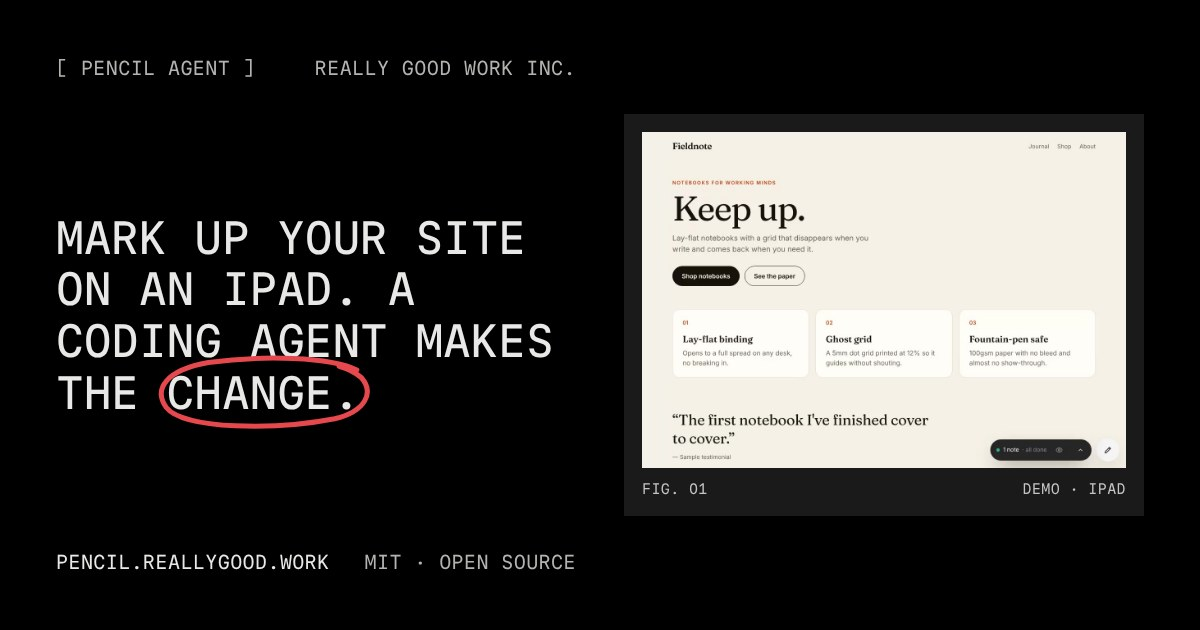
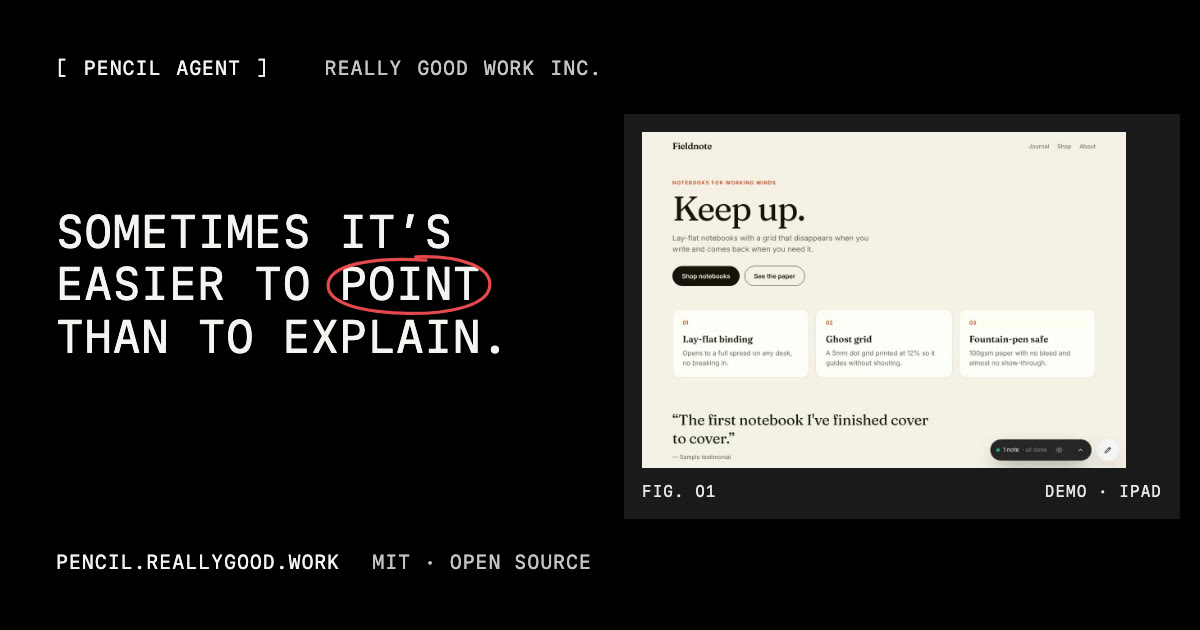
Site: rewrite the copy as an idea, not a pitch
- New story: where the idea came from, in first person. Cut the
  element-finding walkthrough, the experience and voice tables, and the
  server spec. Shorter FAQ, with the JSON-LD rebuilt to match.
- Three text tones: bright headings, softer body, dim labels.
- Paragraphs in sentence case; labels, headings and nav stay uppercase.
- New OG card with the new headline. Updated meta, llms.txt and manifest.

diff --git a/site/index.html b/site/index.html
@@ -3,8 +3,8 @@
 <head>
 <meta charset="utf-8">
 <meta name="viewport" content="width=device-width, initial-scale=1">
-<title>Pencil Agent: mark up your site on an iPad, Claude Code makes the change</title>
-<meta name="description" content="Circle something on your live site with Apple Pencil or a finger, say what should change, and Claude Code edits the code on your Mac. Free, open source, MIT.">
+<title>Pencil Agent: draw on your site, Claude Code makes the change</title>
+<meta name="description" content="An experiment: circle something on a live website with an Apple Pencil or a finger, say what you want, and Claude Code changes the code on your Mac. Free and open source.">
 <meta name="author" content="Drew Minns, Really Good Work Inc.">
 <meta name="robots" content="index, follow, max-image-preview:large, max-video-preview:-1, max-snippet:-1">
 <link rel="canonical" href="https://pencil.reallygood.work/">
@@ -19,13 +19,13 @@
 <meta property="og:site_name" content="Pencil Agent">
 <meta property="og:locale" content="en_US">
 <meta property="og:url" content="https://pencil.reallygood.work/">
-<meta property="og:title" content="Pencil Agent: mark up your site on an iPad">
-<meta property="og:description" content="Circle it on your iPad. Say what's wrong. Claude Code fixes it on your Mac. Free and open source.">
+<meta property="og:title" content="Pencil Agent: sometimes it’s easier to point than to explain">
+<meta property="og:description" content="Draw on a live website with an Apple Pencil or your finger, say what you want, and Claude Code makes the change on your Mac. An open-source experiment.">
 <meta property="og:image" content="https://pencil.reallygood.work/media/og.jpg">
 <meta property="og:image:type" content="image/jpeg">
 <meta property="og:image:width" content="1200">
 <meta property="og:image:height" content="630">
-<meta property="og:image:alt" content="Pencil Agent: mark up your site on an iPad. A coding agent makes the change. Beside it, the demo site on an iPad.">
+<meta property="og:image:alt" content="Pencil Agent: sometimes it’s easier to point than to explain. The word point is circled in red. Beside it, the demo site on an iPad.">
 <meta property="og:video" content="https://pencil.reallygood.work/media/ipad.mp4">
 <meta property="og:video:secure_url" content="https://pencil.reallygood.work/media/ipad.mp4">
 <meta property="og:video:type" content="video/mp4">
@@ -34,10 +34,10 @@
 <meta name="twitter:card" content="summary_large_image">
 <meta name="twitter:site" content="@reallygoodwork">
 <meta name="twitter:creator" content="@reallygoodwork">
-<meta name="twitter:title" content="Pencil Agent: mark up your site on an iPad">
-<meta name="twitter:description" content="Circle it on your iPad. Say what's wrong. Claude Code fixes it on your Mac.">
+<meta name="twitter:title" content="Pencil Agent: sometimes it’s easier to point than to explain">
+<meta name="twitter:description" content="Draw on a live website, say what you want, and Claude Code makes the change on your Mac.">
 <meta name="twitter:image" content="https://pencil.reallygood.work/media/og.jpg">
-<meta name="twitter:image:alt" content="Pencil Agent: mark up your site on an iPad. A coding agent makes the change.">
+<meta name="twitter:image:alt" content="Pencil Agent: sometimes it’s easier to point than to explain.">
 <script type="application/ld+json">
 {
  "@context": "https://schema.org",
@@ -71,7 +71,7 @@
    "@id": "https://pencil.reallygood.work/#app",
    "name": "Pencil Agent",
    "url": "https://pencil.reallygood.work/",
-   "description": "Circle something on your live site with Apple Pencil or a finger, say what should change, and Claude Code edits the code on your Mac. Free, open source, MIT.",
+   "description": "An experiment: circle something on a live website with an Apple Pencil or a finger, say what you want, and Claude Code changes the code on your Mac. Free and open source.",
    "applicationCategory": "DeveloperApplication",
    "applicationSubCategory": "Visual feedback and code editing",
    "operatingSystem": "macOS, iPadOS, iOS",
@@ -134,86 +134,14 @@
    "@type": "FAQPage",
    "@id": "https://pencil.reallygood.work/#faq",
    "mainEntity": [
-    {
-     "@type": "Question",
-     "name": "What is Pencil Agent?",
-     "acceptedAnswer": {
-      "@type": "Answer",
-      "text": "An open-source tool for reviewing websites on an iPad or phone. You circle part of the live page, say or type the change, and Claude Code edits the code on your Mac. The page reloads with the fix."
-     }
-    },
-    {
-     "@type": "Question",
-     "name": "What do I need to run it?",
-     "acceptedAnswer": {
-      "@type": "Answer",
-      "text": "A Mac with Node 20.6 or newer, Claude Code signed in, your app's dev server, and an iPad or iPhone. Tailscale (free) connects the two devices from any network."
-     }
-    },
-    {
-     "@type": "Question",
-     "name": "How much does it cost?",
-     "acceptedAnswer": {
-      "@type": "Answer",
-      "text": "Pencil Agent is free and MIT licensed. Claude Code runs with your own Claude plan or API key, the same as at your desk. Voice transcription is free: keyboard dictation or whisper.cpp on your Mac."
-     }
-    },
-    {
-     "@type": "Question",
-     "name": "How does it know which element I circled?",
-     "acceptedAnswer": {
-      "@type": "Answer",
-      "text": "It asks the browser, not the pixels. It finds what sits under the middle of the circle, then steps out to the parent while the circle still covers 70% of it. Circle a button, get the button."
-     }
-    },
-    {
-     "@type": "Question",
-     "name": "How does it tell an arrow from a circle?",
-     "acceptedAnswer": {
-      "@type": "Answer",
-      "text": "It measures each stroke with loose rules instead of recognising pictures. Ends that meet make a loop. A path that turns back from its farthest point is an arrow. Two crossing lines are an X. A flat line through text is a strike, just below it an underline."
-     }
-    },
-    {
-     "@type": "Question",
-     "name": "Where does my data go?",
-     "acceptedAnswer": {
-      "@type": "Answer",
-      "text": "Notes, sketches and voice stay on your Mac. The only thing that leaves is what Claude Code sends to Anthropic while it works in your project, under your own login, the same as at your desk. Nothing runs until you send a note."
-     }
-    },
-    {
-     "@type": "Question",
-     "name": "Is it secure?",
-     "acceptedAnswer": {
-      "@type": "Answer",
-      "text": "The server listens on 127.0.0.1 only, checks a long random token and your app's exact address on every request, and refuses every other site. The agent can read, search and edit files. It has no terminal and no internet."
-     }
-    },
-    {
-     "@type": "Question",
-     "name": "Why Tailscale?",
-     "acceptedAnswer": {
-      "@type": "Answer",
-      "text": "Your iPad needs to reach your Mac without opening a port to the internet. Tailscale is a private, encrypted network between your own devices, and it gives the Mac a real HTTPS certificate so Safari allows the mic. On trusted home Wi-Fi you can skip it."
-     }
-    },
-    {
-     "@type": "Question",
-     "name": "Does it work on a phone?",
-     "acceptedAnswer": {
-      "@type": "Answer",
-      "text": "Yes. Turn the pen on, draw with one finger and scroll with two. On an iPad, the Apple Pencil draws and your fingers keep scrolling."
-     }
-    },
-    {
-     "@type": "Question",
-     "name": "Which frameworks does it support?",
-     "acceptedAnswer": {
-      "@type": "Answer",
-      "text": "Any site your dev server runs: it's one script tag, added in development only. In React apps it also reports the component and source file."
-     }
-    }
+    {"@type": "Question", "name": "What is Pencil Agent?", "acceptedAnswer": {"@type": "Answer", "text": "An experiment, and an open-source tool. You circle part of a live site on an iPad or phone, say what should change, and Claude Code edits the code on your Mac."}},
+    {"@type": "Question", "name": "What do I need?", "acceptedAnswer": {"@type": "Answer", "text": "A Mac with Node 20.6 or newer, Claude Code signed in, your app’s dev server, and an iPad or iPhone. Tailscale, which is free, connects them from any network."}},
+    {"@type": "Question", "name": "What does it cost?", "acceptedAnswer": {"@type": "Answer", "text": "Nothing. It’s MIT licensed. Claude Code uses your own Claude plan, the same as at your desk. Voice is free too: the keyboard’s dictation key, or whisper.cpp on your Mac."}},
+    {"@type": "Question", "name": "How does it know what I circled?", "acceptedAnswer": {"@type": "Answer", "text": "It asks the browser what’s under your circle and picks the element the circle mostly covers. Circle a button, you get the button. Circle a card, you get the card."}},
+    {"@type": "Question", "name": "Where does my stuff go?", "acceptedAnswer": {"@type": "Answer", "text": "Your notes, sketches and voice stay on your Mac. Claude Code talks to Anthropic while it works, under your login, like it always does."}},
+    {"@type": "Question", "name": "Why Tailscale?", "acceptedAnswer": {"@type": "Answer", "text": "It connects your iPad to your Mac without opening anything to the internet. It also gives the Mac the HTTPS certificate Safari needs before it’ll use the mic."}},
+    {"@type": "Question", "name": "Does it work on a phone?", "acceptedAnswer": {"@type": "Answer", "text": "Yes. Turn the pen on, draw with one finger and scroll with two. On an iPad, the Pencil draws and your fingers scroll."}},
+    {"@type": "Question", "name": "Which frameworks does it work with?", "acceptedAnswer": {"@type": "Answer", "text": "Anything your dev server runs. It’s one script tag, added in development only. In React it also finds the component and the source file."}}
    ]
   }
  ]
@@ -223,23 +151,27 @@
 @font-face{font-family:'Paper Mono';src:url('media/PaperMono.woff2') format('woff2');font-weight:100 800;font-style:normal;font-display:swap}
 body{margin:0;background:#000}
 .pg{
-  /* two text tones on pure black, both measured: fg Lc 93 (17.1:1), dim Lc 61 */
+  /* three text tones on pure black: primary for headings (19:1), body for reading (8:1), dim for meta (5:1) */
   --color-bg-page:#000000; --color-bg-surface:#0D0D0D; --color-border:#595855;
-  --color-text-primary:#E8E8E6; --color-text-dim:#B3B3B0; --color-bg-plate:#1A1A1A; --color-text-plate-dim:#C4C4C1;
+  --color-text-primary:#F4F4F2; --color-text-body:#A1A19E; --color-text-dim:#7D7D7A; --color-bg-plate:#1A1A1A; --color-text-plate-dim:#A1A19E;
   --color-text-secondary:var(--color-text-primary); --color-text-tertiary:var(--color-text-plate-dim); /* names used inside the diagrams */ --color-ink:#E5484D;
   --text-body:0.8125rem; --text-small:0.75rem; --text-statement:1.25rem;
-  background:var(--color-bg-page);color:var(--color-text-primary);
+  background:var(--color-bg-page);color:var(--color-text-body);
   font-family:'Paper Mono',ui-monospace,SFMono-Regular,Menlo,monospace;
   font-size:var(--text-body);line-height:1.5;font-weight:400;text-transform:uppercase;letter-spacing:0.02em;
   -webkit-font-smoothing:antialiased;-moz-osx-font-smoothing:grayscale}
 .pg a{color:inherit;text-decoration:none}
-.pg a:hover{color:var(--color-text-dim)}
+.pg a:hover{color:var(--color-text-primary)}
+header,.statement,h2,.faq h3,.row .k,.mark{color:var(--color-text-primary)}
+header a:hover{color:var(--color-text-dim)}
+/* paragraphs read in sentence case; labels, headings and nav stay uppercase */
+.pg p:not(.statement),ol.steps li>span:last-child,.row .v,.cap,.plate .sub{text-transform:none;letter-spacing:0}
 .br::before{content:"[\00a0"} .br::after{content:"\00a0]"}
 .wrap{max-width:64rem;margin:0 auto;padding:0 2rem}
 header{display:flex;justify-content:space-between;align-items:baseline;gap:1.5rem;padding:1.5rem 0}
 .nav{display:flex;gap:1.5rem;flex-wrap:wrap}
 .sec{display:grid;grid-template-columns:12rem 1fr;column-gap:2rem;padding:4.5rem 0 0}
-.lab{min-width:0;color:var(--color-text-primary)}
+.lab{min-width:0;color:var(--color-text-dim)}
 .body{min-width:0;max-width:42rem}
 .statement{margin:0;font-size:var(--text-statement);line-height:1.3;font-weight:400;letter-spacing:0.01em;text-wrap:balance;max-width:28ch}
 h2{margin:0;font-size:var(--text-body);line-height:1.5;font-weight:600;letter-spacing:0.04em}
@@ -247,13 +179,14 @@ p{margin:1.25rem 0 0;max-width:56ch;text-wrap:pretty}
 h2 + p{margin-top:0.75rem}
 .faq{margin-top:2rem;display:grid;row-gap:1.75rem}
 .faq h3{margin:0;font-size:var(--text-body);line-height:1.5;font-weight:600;letter-spacing:0.04em}
-.faq p{margin:.375rem 0 0;color:var(--color-text-dim);text-wrap:pretty}
+.faq p{margin:.375rem 0 0;text-wrap:pretty}
 .rows{margin-top:2rem;display:grid;row-gap:1.75rem}
 .row{display:grid;grid-template-columns:minmax(0,13rem) minmax(0,1fr);column-gap:1.5rem}
 .row .k{min-width:0}
 .row .v{min-width:0;display:flex;flex-direction:column;text-wrap:pretty;overflow-wrap:anywhere}
 ol.steps{list-style:none;margin:2rem 0 0;padding:0;display:grid;row-gap:1.25rem;max-width:56ch}
 ol.steps li{display:grid;grid-template-columns:2.5rem 1fr}
+ol.steps li>span:first-child{color:var(--color-text-dim)}
 .plate{margin:2.5rem 0 0;background:var(--color-bg-plate);padding:0 0.5rem 0.5rem}
 .pl-h{display:flex;align-items:center;justify-content:space-between;gap:1rem;min-height:2.25rem;font-size:var(--text-small);color:var(--color-text-primary)}
 .pl-h .chip{background:var(--color-text-primary);color:var(--color-bg-page);padding:0.1875rem 0.5rem;font-weight:500;white-space:nowrap}
@@ -295,70 +228,39 @@ footer .body{display:flex;flex-wrap:wrap;justify-content:space-between;gap:1rem}
 <div class="wrap">
 <header>
 <a href="#top">Pencil Agent</a>
-<nav class="nav" aria-label="Main"><a class="n br" href="#how">How</a><a class="n br" href="#marks">Marks</a><a class="n br" href="#server">Server</a><a class="n br" href="#security">Security</a><a class="n br" href="#faq">FAQ</a><a class="n br" href="#about">Studio</a><a class="br" href="https://github.com/reallygoodwork/pencil">Code</a></nav>
+<nav class="nav" aria-label="Main"><a class="n br" href="#why">Why</a><a class="n br" href="#how">How</a><a class="n br" href="#marks">Drawing</a><a class="n br" href="#security">Privacy</a><a class="n br" href="#faq">FAQ</a><a class="br" href="https://github.com/reallygoodwork/pencil">Code</a></nav>
 </header>
 <section class="sec" id="intro">
-<div class="lab">Pencil Agent<br>A Really Good Work Inc. project</div>
+<div class="lab">Pencil Agent<br>An idea from Really Good Work</div>
 <div class="body">
-<h1 class="statement">Mark up your site on an iPad. A coding agent makes the change.</h1>
-<p>Draw on the live page, say what should change, and Claude Code edits the code on your Mac. You keep reviewing.</p>
+<h1 class="statement">Sometimes it’s easier to point than to explain.</h1>
+<p>Pencil Agent is an experiment. Draw on a live website with an Apple Pencil or your finger, say what you want, and Claude Code makes the change on your Mac.</p>
 </div>
 </section>
-<section class="sec" id="problem">
-<div class="lab">01 The problem</div>
+<section class="sec" id="why">
+<div class="lab">01 Where it came from</div>
 <div class="body">
-<h2>Small fixes still need a laptop.</h2>
-<p>You spot most problems on the real thing, often on a phone or iPad. The fix is usually small: a colour, a word, some spacing. But making it means opening the laptop, finding the file and switching context. So the fix waits, or gets lost.</p>
+<h2>I didn’t want to open the laptop.</h2>
+<p>I look at most of my work on an iPad or my phone, the way people will actually see it. That’s where I notice things. A button that’s the wrong orange. A headline that runs too long.</p>
+<p>The fix is usually small. But making it meant opening the laptop, finding the file and writing out what I meant. By then the moment was gone.</p>
+<p>And typing isn’t always the best way to say it. Sometimes I want to point and say, “No, this. This exact thing.”</p>
 </div>
 </section>
 <section class="sec" id="how">
 <div class="lab">02 How it works</div>
 <div class="body">
-<h2>Draw it, say it, it changes.</h2>
-<ol class="steps"><li><span>01</span><span>Circle what you want changed. Apple Pencil on an iPad, or a finger on a phone.</span></li><li><span>02</span><span>Say or type the change. “Make this our brand orange.”</span></li><li><span>03</span><span>Your Mac gets the note, with the element, its text and its source file.</span></li><li><span>04</span><span>Claude Code edits the file. The page reloads and the note turns green.</span></li></ol>
-<figure class="plate"><div class="pl-h"><span class="chip">Fig. 01</span><span class="t">Demo · iPad</span></div><video class="media" src="media/ipad.mp4" poster="media/ipad-poster.jpg" autoplay muted loop playsinline aria-label="Screen recording on an iPad: the headline is circled, the note asks for it shorter and punchier, Claude works on it, and the headline changes to Keep up."></video><figcaption class="cap">The demo site. Circle the headline, ask for it shorter, it updates.</figcaption></figure>
-</div>
-</section>
-<section class="sec" id="experience">
-<div class="lab">03 The experience</div>
-<div class="body">
-<h2>Built to stay out of the way.</h2>
-<p>You’re reviewing, not operating a tool. Nothing asks you to stop.</p>
-<div class="rows"><div class="row"><div class="k">Pencil draws</div><div class="v"><span>Fingers keep scrolling and tapping. On a phone, turn the pen on and use a finger.</span></div></div><div class="row"><div class="k">Pause to finish</div><div class="v"><span>Draw as many strokes as you need. Stop for under a second and the note opens.</span></div></div><div class="row"><div class="k">One pill</div><div class="v"><span>Type, talk or just send the sketch. A line above it says how it read your marks.</span></div></div><div class="row"><div class="k">Status</div><div class="v"><span>Amber waiting</span><span>Blue working</span><span>Purple question</span><span>Green done</span></div></div><div class="row"><div class="k">Keep moving</div><div class="v"><span>Mark the next thing while Claude works on the last one.</span></div></div><div class="row"><div class="k">Tidy up</div><div class="v"><span>A tray lists every note. Close, reopen, or delete with five seconds to undo.</span></div></div></div>
-<h2 style="margin-top:3.5rem">Voice, without paying for it.</h2>
-<p>Most voice features send your audio to a paid cloud service. This uses what’s already on your devices.</p>
-<div class="rows"><div class="row"><div class="k">Keyboard mic</div><div class="v"><span>The dictation key on the iPad keyboard. Built in, free, no setup.</span></div></div><div class="row"><div class="k">Whisper</div><div class="v"><span>whisper.cpp, an open-source speech model, runs on your Mac. Free, offline, the audio stays home.</span></div></div><div class="row"><div class="k">Web Audio</div><div class="v"><span>The browser’s own audio tools drive the visual that moves with your voice.</span></div></div></div>
-</div>
-</section>
-<section class="sec" id="finding">
-<div class="lab">04 Finding the element</div>
-<div class="body">
-<h2>How it knows what you circled.</h2>
-<p>A page is a tree of boxes and the browser knows where each one sits. So the overlay doesn’t look at pixels. It asks the browser.</p>
-<ol class="steps"><li><span>01</span><span>Ask what’s under the middle of the circle. Usually a word inside a button.</span></li><li><span>02</span><span>Step out to the parent while the circle still covers 70% of it. The word becomes the button.</span></li><li><span>03</span><span>Stop when it doesn’t fit. The section is too big, so the button is the answer.</span></li></ol>
-<figure class="plate"><div class="pl-h"><span class="chip">Fig. 02</span><span class="t">Finding the element</span></div><div class="scroll"><svg viewBox="0 0 640 220" role="img" aria-label="A section box containing a button. The words inside the button are found first, then the button, which the circle covers, then the section, which it doesn't." style="display: block; width: 100%; height: auto; background: var(--color-bg-surface)">
-<g font-family="Paper Mono, ui-monospace, monospace" font-size="12">
-<rect x="20" y="20" width="600" height="180" fill="none" stroke="var(--color-border)"/>
-<text x="34" y="42" fill="var(--color-text-tertiary)">section</text>
-<rect x="70" y="86" width="190" height="52" rx="26" fill="none" stroke="var(--color-text-secondary)"/>
-<rect x="100" y="101" width="130" height="22" fill="none" stroke="var(--color-text-tertiary)" stroke-dasharray="3 3"/>
-<text x="165" y="116" fill="var(--color-text-primary)" text-anchor="middle">Shop notebooks</text>
-<ellipse cx="165" cy="112" rx="125" ry="46" fill="none" stroke="#E5484D" stroke-width="2.5" transform="rotate(-3 165 112)"/>
-<circle cx="165" cy="131" r="3" fill="#E5484D"/>
-<text x="320" y="78" fill="var(--color-text-tertiary)">1</text><text x="344" y="78" fill="var(--color-text-secondary)">the words: start here</text>
-<text x="320" y="116" fill="var(--color-text-tertiary)">2</text><text x="344" y="116" fill="var(--color-text-primary)">the button: circle covers it</text>
-<text x="320" y="154" fill="var(--color-text-tertiary)">3</text><text x="344" y="154" fill="var(--color-text-secondary)">the section: too big, stop</text>
-</g>
-</svg></div><figcaption class="cap">Circle a button, get the button. Circle a card, get the card.</figcaption></figure>
-<p>Then it collects what a developer would want: tag, classes, text, neighbours, a few styles and, in React, the component and source file.</p>
+<h2>Point at it. Say it. Keep going.</h2>
+<ol class="steps"><li><span>01</span><span>Circle the thing. Apple Pencil on an iPad, or a finger on a phone.</span></li><li><span>02</span><span>Say what you want, or type it. “Make this our brand orange.”</span></li><li><span>03</span><span>Your Mac gets the note, with the element and the file it lives in.</span></li><li><span>04</span><span>Claude Code makes the change. The page reloads and the note turns green.</span></li></ol>
+<figure class="plate"><div class="pl-h"><span class="chip">Fig. 01</span><span class="t">Demo · iPad</span></div><video class="media" src="media/ipad.mp4" poster="media/ipad-poster.jpg" autoplay muted loop playsinline aria-label="Screen recording on an iPad: the headline is circled, the note asks for it shorter and punchier, Claude works on it, and the headline changes to Keep up."></video><figcaption class="cap">Circle the headline, ask for it shorter, watch it change.</figcaption></figure>
+<p>You don’t have to wait. Mark the next thing while Claude works on the last one. Every note stays on the page, so you can see what’s waiting, what’s done, and what Claude has a question about.</p>
 </div>
 </section>
 <section class="sec" id="marks">
-<div class="lab">05 Reading the marks</div>
+<div class="lab">03 Drawing</div>
 <div class="body">
-<h2>How it tells an arrow from a circle.</h2>
-<p>Everyone draws differently, so it doesn’t recognise pictures. It measures each stroke with loose rules that hold up in anyone’s hand.</p>
-<figure class="plate"><div class="pl-h"><span class="chip">Fig. 03</span><span class="t">Three rules</span></div><div class="scroll"><svg viewBox="0 0 640 200" role="img" aria-label="Three rules. A loop whose ends meet is a circle. A stroke whose points hug its bounding box is a box. A stroke that doubles back from its farthest point is an arrow." style="display: block; width: 100%; height: auto; background: var(--color-bg-surface)">
+<h2>More than circles.</h2>
+<p>If you’ve ever marked up a print, you already know how this works. An arrow means move it. A box means put something here. A cross means get rid of it.</p>
+<figure class="plate"><div class="pl-h"><span class="chip">Fig. 02</span><span class="t">Reading a stroke</span></div><div class="scroll"><svg viewBox="0 0 640 200" role="img" aria-label="Three rules. A loop whose ends meet is a circle. A stroke whose points hug its bounding box is a box. A stroke that doubles back from its farthest point is an arrow." style="display: block; width: 100%; height: auto; background: var(--color-bg-surface)">
 <g font-family="Paper Mono, ui-monospace, monospace" font-size="12" fill="none">
 <path d="M118 52 C 168 46, 182 92, 160 120 C 140 146, 82 142, 66 112 C 52 84, 76 50, 112 54" stroke="#E5484D" stroke-width="2.5" stroke-linecap="round"/>
 <circle cx="118" cy="52" r="3.5" fill="var(--color-text-primary)"/><circle cx="112" cy="54" r="3.5" fill="var(--color-text-primary)"/>
@@ -373,57 +275,53 @@ footer .body{display:flex;flex-wrap:wrap;justify-content:space-between;gap:1rem}
 <text x="424" y="172" fill="var(--color-text-primary)" stroke="none">Turns back at the tip</text>
 <text x="424" y="188" fill="var(--color-text-tertiary)" stroke="none">→ an arrow: move it</text>
 </g>
-</svg></div><figcaption class="cap">Measured, not recognised. Works in anyone’s hand.</figcaption></figure>
-<div class="rows"><div class="row"><div class="k">Circle</div><div class="v"><span>The ends meet and the path is long. A loop.</span></div></div><div class="row"><div class="k">Box</div><div class="v"><span>A loop whose points hug its edges.</span></div></div><div class="row"><div class="k">Arrow</div><div class="v"><span>The point farthest from the start is the tip. The pen turns back from it to draw the head.</span></div></div><div class="row"><div class="k">X</div><div class="v"><span>Two lines of similar size crossing near their middles.</span></div></div><div class="row"><div class="k">Strike / underline</div><div class="v"><span>A flat line through something strikes it. Just below, it underlines it.</span></div></div><div class="row"><div class="k">Handwriting</div><div class="v"><span>A scribble inside a box is its label.</span></div></div></div>
-<p>Then the shape becomes an instruction. An arrow moves whatever sits at its tail to where the tip points, a whole card rather than its heading. A box in empty space adds something between the two elements it sits between.</p>
-<p>It shows its reading before you send, like “Add after Link ‘See the paper’”. For anything beyond a circle, the agent also gets a picture: the page as outlines with your ink on top.</p>
-<figure class="plate"><div class="pl-h"><span class="chip">Fig. 04</span><span class="t">Sketch in, picture out</span></div><div class="pair"><div><img class="media" src="media/sketch-compose.jpg" alt="The demo page with a box sketched next to the two buttons, a scribble inside it, and an arrow from the third card to the first. The dark note pill below reads: Add after Link “See the paper”, with the note Add a Gift cards button, and lead with the fountain pen card."><span class="sub">A · What you draw</span></div><div><img class="media" src="media/sketch-seen.png" alt="The same area redrawn as grey outlines with labels, with the box, scribble and arrow on top."><span class="sub">B · What the agent receives</span></div></div></figure>
+</svg></div><figcaption class="cap">It measures the shape of each stroke instead of matching pictures, so messy drawing is fine.</figcaption></figure>
+<div class="rows"><div class="row"><div class="k">Circle</div><div class="v"><span>This one.</span></div></div><div class="row"><div class="k">Arrow</div><div class="v"><span>Move it here.</span></div></div><div class="row"><div class="k">Box</div><div class="v"><span>Add something here. Write inside it to say what.</span></div></div><div class="row"><div class="k">X or strike</div><div class="v"><span>Remove it.</span></div></div><div class="row"><div class="k">Underline</div><div class="v"><span>Make it stand out.</span></div></div></div>
+<p>Before you send, it tells you how it read your marks. If it got it wrong, draw it again.</p>
+<figure class="plate"><div class="pl-h"><span class="chip">Fig. 03</span><span class="t">What Claude sees</span></div><div class="pair"><div><img class="media" src="media/sketch-compose.jpg" alt="The demo page with a box sketched next to the two buttons, a scribble inside it, and an arrow from the third card to the first. The dark note pill below reads: Add after Link “See the paper”, with the note Add a Gift cards button, and lead with the fountain pen card."><span class="sub">A · What you draw</span></div><div><img class="media" src="media/sketch-seen.png" alt="The same area redrawn as grey outlines with labels, with the box, scribble and arrow on top."><span class="sub">B · What the agent receives</span></div></div><figcaption class="cap">Claude gets the page as outlines with your ink on top.</figcaption></figure>
 </div>
 </section>
 <section class="sec" id="server">
-<div class="lab">06 The local server</div>
+<div class="lab">04 On your Mac</div>
 <div class="body">
-<h2>The middle step, on your own Mac.</h2>
-<p>One Node file, nothing to install beyond Node. It sits between the iPad and Claude Code.</p>
-<div class="rows"><div class="row"><div class="k">Serves</div><div class="v"><span>The drawing script your page loads. Nothing to install in your app.</span></div></div><div class="row"><div class="k">Checks</div><div class="v"><span>Right token, right app, sensible size. Everything else is refused.</span></div></div><div class="row"><div class="k">Holds</div><div class="v"><span>Notes in memory, numbered per page. Restart and they’re gone.</span></div></div><div class="row"><div class="k">Streams</div><div class="v"><span>Each status change back to the page. No reloads.</span></div></div><div class="row"><div class="k">Runs</div><div class="v"><span>Claude Code in your project, up to five notes at a time, two seconds after the last one.</span></div></div><div class="row"><div class="k">Reports</div><div class="v"><span>Claude’s one line per note becomes the reply.</span></div></div></div>
-<figure class="plate"><div class="pl-h"><span class="chip">Code 01</span><span class="t">One note’s brief · plain text</span></div><pre class="code">[ann_c6j7hqC0Cmk] fix: Make this our brand orange
+<h2>A small server does the handoff.</h2>
+<p>It’s one Node file with no dependencies. It passes your notes to Claude Code, which works in your project the same way it does when you’re at your desk. This is everything Claude gets for one note:</p>
+<figure class="plate"><div class="pl-h"><span class="chip">Code 01</span><span class="t">One note</span></div><pre class="code">[ann_c6j7hqC0Cmk] fix: Make this our brand orange
 page: /
 element: a.btn.btn-primary "Shop notebooks"
 source: src/components/PrimaryButton.tsx:12
 classes: btn btn-primary</pre></figure>
-<p>That’s the whole brief for one note: about 60&nbsp;tokens. Notes, sketches and voice stay on your Mac. Claude Code works in your project the same way it does at your desk, with your own login. Nothing runs until you send.</p>
+<p>About 60&nbsp;tokens. Nothing runs until you send.</p>
 </div>
 </section>
 <section class="sec" id="security">
-<div class="lab">07 Security</div>
+<div class="lab">05 Keeping it private</div>
 <div class="body">
-<h2>Who gets to tell your computer to change code?</h2>
-<p>This lets a web page ask an agent to edit files on your Mac. Anyone who can reach the server could do the same. So only you can reach it, and the agent is limited even then.</p>
-<div class="rows"><div class="row"><div class="k">Mac only</div><div class="v"><span>The server listens on 127.0.0.1. Other machines can’t connect. Tailscale hands requests in from inside the Mac.</span></div></div><div class="row"><div class="k">Private network</div><div class="v"><span>Your iPad reaches the Mac over Tailscale. Only your signed-in devices can join.</span></div></div><div class="row"><div class="k">Token</div><div class="v"><span>A long random key in a file only you can read. Every request carries it.</span></div></div><div class="row"><div class="k">Your app only</div><div class="v"><span>The server answers your app’s address and refuses every other site.</span></div></div><div class="row"><div class="k">Limited agent</div><div class="v"><span>Read, find, search, edit and write files. No terminal. No internet.</span></div></div></div>
-<h2 style="margin-top:3.5rem">Why Tailscale.</h2>
-<p>Your iPad needs to reach your Mac. Opening a port to the internet invites the world. Home Wi-Fi only works at home, and anyone on it can reach the port. Tailscale is a private network between your own devices: install it on both, sign in once, and they connect, encrypted, from any network. It also gives the Mac a real HTTPS certificate, which Safari needs before a page can use the mic. The free plan covers it.</p>
-<p>Without it: on a trusted Wi-Fi, run with <code>HOST=0.0.0.0</code> and your Mac’s local IP. Plain HTTP, no mic button, home only. Not on café or office networks.</p>
+<h2>Only you can reach it.</h2>
+<p>A web page that can ask an agent to edit your code needs to be locked down. So it is.</p>
+<div class="rows"><div class="row"><div class="k">Mac only</div><div class="v"><span>The server only listens on your Mac. Other machines can’t connect.</span></div></div><div class="row"><div class="k">Tailscale</div><div class="v"><span>Your iPad reaches the Mac over a private network of your own devices.</span></div></div><div class="row"><div class="k">Token</div><div class="v"><span>Every request carries a long random key that only you have.</span></div></div><div class="row"><div class="k">Your app only</div><div class="v"><span>It answers your app and refuses every other site.</span></div></div><div class="row"><div class="k">Limited agent</div><div class="v"><span>Claude can read and edit files. No terminal. No internet.</span></div></div></div>
+<p>No Tailscale? On Wi-Fi you trust, run it with <code>HOST=0.0.0.0</code> and your Mac’s local address. You lose the mic, and it only works at home.</p>
 </div>
 </section>
 <section class="sec" id="try">
-<div class="lab">08 Try it</div>
+<div class="lab">06 Try it</div>
 <div class="body">
 <h2>Run the demo.</h2>
 <figure class="plate"><div class="pl-h"><span class="chip">Code 02</span><span class="t">Terminal</span></div><pre class="code">git clone https://github.com/reallygoodwork/pencil
 cd pencil
 npm run demo   <i># open localhost:5173, tap the pen</i></pre></figure>
-<p>A Mac with Node 20 and Claude Code. The demo edits a copy of a sample site. The README covers your own project. <a class="br" href="https://github.com/reallygoodwork/pencil">Get the code</a></p>
+<p>You need a Mac with Node 20 and Claude Code. The demo edits a copy of a sample site, so nothing of yours is touched. The README covers your own project. <a class="br" href="https://github.com/reallygoodwork/pencil">Get the code</a></p>
 </div>
 </section>
 <section class="sec" id="faq">
-<div class="lab">09 Questions</div>
+<div class="lab">07 Questions</div>
 <div class="body">
 <h2>Short answers.</h2>
-<div class="faq"><div class="qa"><h3>What is Pencil Agent?</h3><p>An open-source tool for reviewing websites on an iPad or phone. You circle part of the live page, say or type the change, and Claude Code edits the code on your Mac. The page reloads with the fix.</p></div><div class="qa"><h3>What do I need to run it?</h3><p>A Mac with Node 20.6 or newer, Claude Code signed in, your app&#x27;s dev server, and an iPad or iPhone. Tailscale (free) connects the two devices from any network.</p></div><div class="qa"><h3>How much does it cost?</h3><p>Pencil Agent is free and MIT licensed. Claude Code runs with your own Claude plan or API key, the same as at your desk. Voice transcription is free: keyboard dictation or whisper.cpp on your Mac.</p></div><div class="qa"><h3>How does it know which element I circled?</h3><p>It asks the browser, not the pixels. It finds what sits under the middle of the circle, then steps out to the parent while the circle still covers 70% of it. Circle a button, get the button.</p></div><div class="qa"><h3>How does it tell an arrow from a circle?</h3><p>It measures each stroke with loose rules instead of recognising pictures. Ends that meet make a loop. A path that turns back from its farthest point is an arrow. Two crossing lines are an X. A flat line through text is a strike, just below it an underline.</p></div><div class="qa"><h3>Where does my data go?</h3><p>Notes, sketches and voice stay on your Mac. The only thing that leaves is what Claude Code sends to Anthropic while it works in your project, under your own login, the same as at your desk. Nothing runs until you send a note.</p></div><div class="qa"><h3>Is it secure?</h3><p>The server listens on 127.0.0.1 only, checks a long random token and your app&#x27;s exact address on every request, and refuses every other site. The agent can read, search and edit files. It has no terminal and no internet.</p></div><div class="qa"><h3>Why Tailscale?</h3><p>Your iPad needs to reach your Mac without opening a port to the internet. Tailscale is a private, encrypted network between your own devices, and it gives the Mac a real HTTPS certificate so Safari allows the mic. On trusted home Wi-Fi you can skip it.</p></div><div class="qa"><h3>Does it work on a phone?</h3><p>Yes. Turn the pen on, draw with one finger and scroll with two. On an iPad, the Apple Pencil draws and your fingers keep scrolling.</p></div><div class="qa"><h3>Which frameworks does it support?</h3><p>Any site your dev server runs: it&#x27;s one script tag, added in development only. In React apps it also reports the component and source file.</p></div></div>
+<div class="faq"><div class="qa"><h3>What is Pencil Agent?</h3><p>An experiment, and an open-source tool. You circle part of a live site on an iPad or phone, say what should change, and Claude Code edits the code on your Mac.</p></div><div class="qa"><h3>What do I need?</h3><p>A Mac with Node 20.6 or newer, Claude Code signed in, your app’s dev server, and an iPad or iPhone. Tailscale, which is free, connects them from any network.</p></div><div class="qa"><h3>What does it cost?</h3><p>Nothing. It’s MIT licensed. Claude Code uses your own Claude plan, the same as at your desk. Voice is free too: the keyboard’s dictation key, or whisper.cpp on your Mac.</p></div><div class="qa"><h3>How does it know what I circled?</h3><p>It asks the browser what’s under your circle and picks the element the circle mostly covers. Circle a button, you get the button. Circle a card, you get the card.</p></div><div class="qa"><h3>Where does my stuff go?</h3><p>Your notes, sketches and voice stay on your Mac. Claude Code talks to Anthropic while it works, under your login, like it always does.</p></div><div class="qa"><h3>Why Tailscale?</h3><p>It connects your iPad to your Mac without opening anything to the internet. It also gives the Mac the HTTPS certificate Safari needs before it’ll use the mic.</p></div><div class="qa"><h3>Does it work on a phone?</h3><p>Yes. Turn the pen on, draw with one finger and scroll with two. On an iPad, the Pencil draws and your fingers scroll.</p></div><div class="qa"><h3>Which frameworks does it work with?</h3><p>Anything your dev server runs. It’s one script tag, added in development only. In React it also finds the component and the source file.</p></div></div>
 </div>
 </section>
 <section class="sec" id="about">
-<div class="lab">10 Studio</div>
+<div class="lab">08 Studio</div>
 <div class="body">
 <p class="statement" style="margin:0">Made by Really Good Work Inc.</p>
 <div class="rows"><div class="row"><div class="k">Website</div><div class="v"><span><a class="br" href="https://reallygood.work">reallygood.work</a></span></div></div><div class="row"><div class="k">X</div><div class="v"><span><a class="br" href="https://x.com/reallygoodwork">@reallygoodwork</a></span></div></div><div class="row"><div class="k">Code</div><div class="v"><span><a class="br" href="https://github.com/reallygoodwork/pencil">github.com/reallygoodwork/pencil</a></span></div></div><div class="row"><div class="k">License</div><div class="v"><span>MIT. Use it for anything.</span><span>Just keep the credit.</span><span><a class="br" href="https://github.com/reallygoodwork/pencil/blob/main/LICENSE">Read it</a></span></div></div></div>
